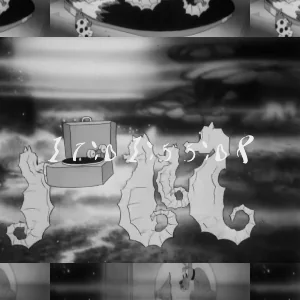
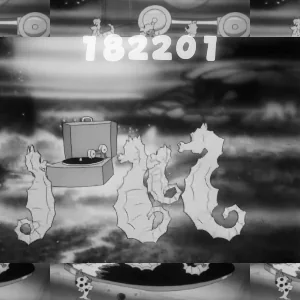
m

diff --git a/src/pages/2026/26-08/26-08-27/Clock.tsx b/src/pages/2026/26-08/26-08-27/Clock.tsx
@@ -7,72 +7,9 @@ import { memo, useEffect, useRef } from 'react';
 import customFont from '@/assets/fonts/26fonts/26-08-27.ttf?url';
 import tileImage from '@/assets/images/26_images/26-08/26-08-27/1.webp?url';
 import seahorseVideo from '@/assets/images/26_images/26-08/26-08-27/2.webm';
+import styles from './Clock.module.css';
 
 export const assets = [seahorseVideo, tileImage];
-
-const containerStyle: React.CSSProperties = {
-  position: 'relative',
-  width: '100vw',
-  height: '100dvh',
-  overflow: 'hidden',
-  backgroundColor: '#2a293c',
-  contain: 'layout style paint',
-  isolation: 'isolate',
-};
-
-const tileBackgroundStyle: React.CSSProperties = {
-  position: 'absolute',
-  inset: 0,
-  backgroundImage: `url(${tileImage})`,
-  backgroundRepeat: 'repeat',
-  backgroundPosition: 'center',
-  backgroundSize: '200px 100px',
-  zIndex: -1,
-};
-
-const videoStyle: React.CSSProperties = {
-  position: 'absolute',
-  inset: 0,
-  width: '100%',
-  height: '100%',
-  objectFit: 'contain',
-  zIndex: 0,
-};
-
-const faceStyle: React.CSSProperties = {
-  position: 'absolute',
-  inset: 0,
-  paddingTop: '10vh',
-  color: '#D2D2B7CB',
-  display: 'flex',
-  alignItems: 'flex-start',
-  justifyContent: 'center',
-  zIndex: 10,
-  fontFamily: "'ClockFont', sans-serif",
-  textShadow: '0 1px 0px rgba(27, 24, 24, 0.94), 0 -1px 0 rgba(255, 255, 255, 0.96), 0 0 30px rgba(255,255,255,0.1)',
-  filter: 'contrast(1.2) brightness(1.1)',
-  opacity: 0.95,
-};
-
-const digitGroupStyle: React.CSSProperties = {
-  display: 'flex',
-  alignItems: 'center',
-  gap: '0.05vmin',
-  position: 'relative',
-};
-
-const digitBoxStyle: React.CSSProperties = {
-  display: 'flex',
-  alignItems: 'center',
-  justifyContent: 'center',
-  width: '8vh',
-  height: '12vh',
-  fontSize: '10vh',
-  flexShrink: 0,
-  textAlign: 'center',
-  textShadow: '0 0 10px rgba(255,255,255,0.5), 0 0 20px rgba(255,255,255,0.3)',
-  filter: 'contrast(1.3) brightness(1.2)',
-};
 
 const CenteredVideoBackground = memo(() => {
   const videoRef = useRef<HTMLVideoElement>(null);
@@ -101,7 +38,7 @@ const CenteredVideoBackground = memo(() => {
   return (
     <video
       ref={videoRef}
-      style={videoStyle}
+      className={styles.video}
       muted
       loop
       playsInline
@@ -128,18 +65,22 @@ const DigitalClock = () => {
   const seconds = currentTime.getSeconds().toString().padStart(2, '0');
 
   return (
-    <main style={containerStyle}>
-      <div style={tileBackgroundStyle} aria-hidden="true" />
+    <main className={styles.container}>
+      <div
+        className={styles.tileBackground}
+        style={{ '--tile-image': `url(${tileImage})` } as React.CSSProperties}
+        aria-hidden="true"
+      />
       <CenteredVideoBackground />
 
-      <div style={faceStyle}>
-        <time dateTime={currentTime.toISOString()} style={digitGroupStyle}>
-          <span style={digitBoxStyle}>{hours[0]}</span>
-          <span style={digitBoxStyle}>{hours[1]}</span>
-          <span style={digitBoxStyle}>{minutes[0]}</span>
-          <span style={digitBoxStyle}>{minutes[1]}</span>
-          <span style={digitBoxStyle}>{seconds[0]}</span>
-          <span style={digitBoxStyle}>{seconds[1]}</span>
+      <div className={styles.face}>
+        <time dateTime={currentTime.toISOString()} className={styles.digitGroup}>
+          <span className={styles.digitBox}>{hours[0]}</span>
+          <span className={styles.digitBox}>{hours[1]}</span>
+          <span className={styles.digitBox}>{minutes[0]}</span>
+          <span className={styles.digitBox}>{minutes[1]}</span>
+          <span className={styles.digitBox}>{seconds[0]}</span>
+          <span className={styles.digitBox}>{seconds[1]}</span>
         </time>
       </div>
     </main>

diff --git a/src/pages/2026/26-08/26-08-27/Clock.module.css b/src/pages/2026/26-08/26-08-27/Clock.module.css
@@ -1,0 +1,75 @@
+.container {
+  position: relative;
+  width: 100vw;
+  height: 100dvh;
+  overflow: hidden;
+  background-color: #2a293c;
+  contain: layout style paint;
+  isolation: isolate;
+}
+
+.tileBackground {
+  position: absolute;
+  inset: 0;
+  background-image: var(--tile-image);
+  background-repeat: repeat;
+  background-position: center;
+  background-size: 200px 100px;
+  z-index: -1;
+}
+
+.video {
+  position: absolute;
+  inset: 0;
+  width: 100%;
+  height: 100%;
+  object-fit: contain;
+  z-index: 0;
+}
+
+.face {
+  position: absolute;
+  inset: 0;
+  padding-top: 10vh;
+  color: #F5F5F0CB;
+  display: flex;
+  align-items: flex-start;
+  justify-content: center;
+  z-index: 10;
+  font-family: 'ClockFont', sans-serif;
+  text-shadow: 0 0 8px rgba(255, 255, 255, 0.4), 0 0 15px rgba(255, 255, 255, 0.2), 0 0 30px rgba(255, 255, 255, 0.1);
+  filter: contrast(1.2) brightness(1.1);
+  opacity: 0.95;
+}
+
+.digitGroup {
+  display: flex;
+  align-items: center;
+  gap: 0.05vmin;
+  position: relative;
+}
+
+.digitBox {
+  display: flex;
+  align-items: center;
+  justify-content: center;
+  width: 8vh;
+  height: 12vh;
+  font-size: 10vh;
+  flex-shrink: 0;
+  text-align: center;
+  text-shadow: 0 0 10px rgba(255, 255, 255, 0.5), 0 0 20px rgba(255, 255, 255, 0.3);
+  filter: contrast(1.3) brightness(1.2);
+}
+
+.srOnly {
+  position: absolute;
+  width: 1px;
+  height: 1px;
+  padding: 0;
+  margin: -1px;
+  overflow: hidden;
+  clip: rect(0, 0, 0, 0);
+  white-space: nowrap;
+  border-width: 0;
+}
